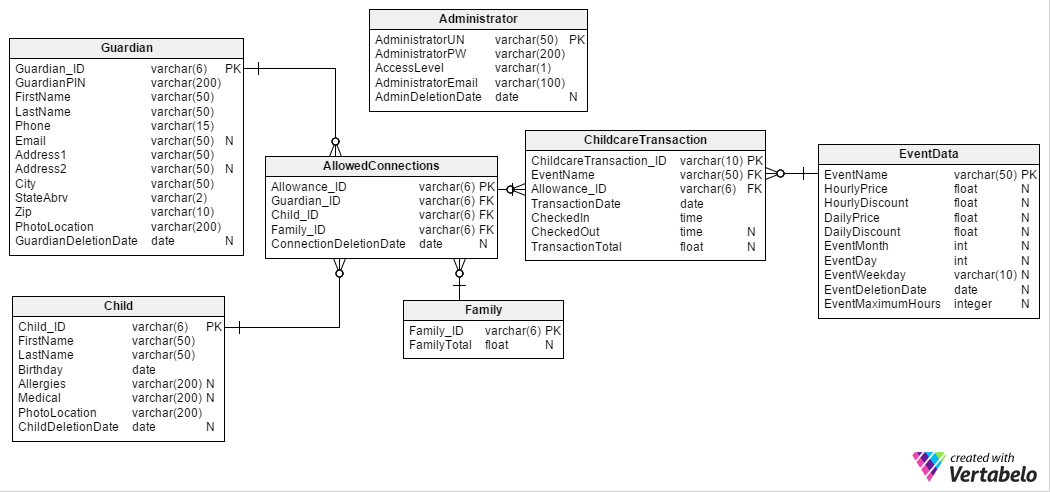
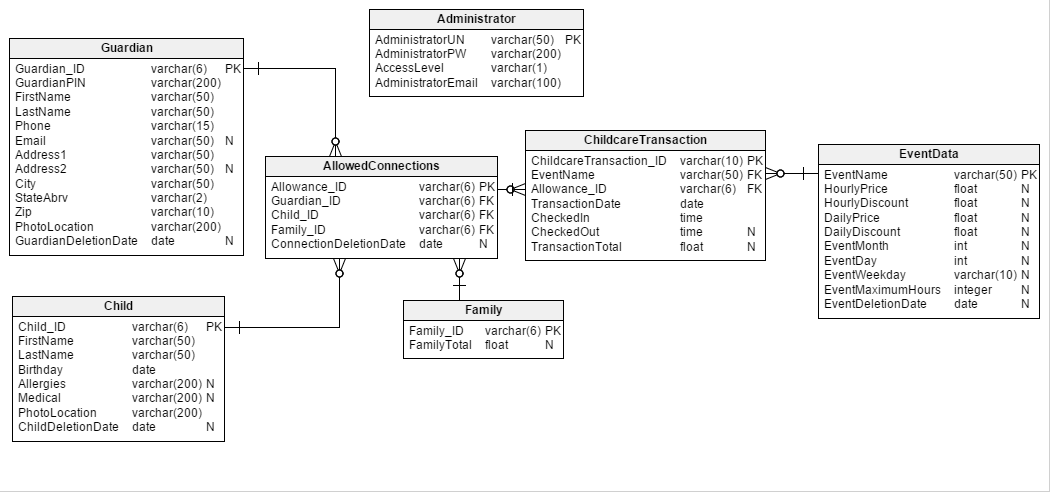
delete admin functional + newest schema

Changed region(s): [[0.3352, 0.0305, 0.579, 0.2134], [0.8533, 0.9146, 1.0, 1.0], [0.7924, 0.5793, 0.9448, 0.6402]]

diff --git a/ChildcareApplication/ChildcareApplication/AdminTools/AdminAddEdit.xaml.cs b/ChildcareApplication/ChildcareApplication/AdminTools/AdminAddEdit.xaml.cs
@@ -9,12 +9,14 @@ namespace ChildcareApplication.AdminTools
     public partial class AdminAddEdit : Window
     {
         private AdminDB db;
+        private string loggedInAs;
         private bool editingPW;
 
-        public AdminAddEdit()
+        public AdminAddEdit(string username)
         {
             InitializeComponent();
             this.db = new AdminDB();
+            this.loggedInAs = username;
 
             lst_AdminList.ItemsSource = db.findAdmins();
         }
@@ -67,7 +69,16 @@ namespace ChildcareApplication.AdminTools
 
         private void btn_DelAdmin_Click(object sender, RoutedEventArgs e)
         {
-            MessageBox.Show("NYI");
+            if (lst_AdminList.SelectedItem.ToString().Equals(loggedInAs))
+            {
+                MessageBox.Show("You cannot delete the currently logged in administrator");
+            }
+            else
+            {
+                db.deleteAdmin(lst_AdminList.SelectedItem.ToString());
+                lst_AdminList.ItemsSource = db.findAdmins();
+                clearForm();
+            }
         }
 
         private void btn_Save_Click(object sender, RoutedEventArgs e)
@@ -85,6 +96,11 @@ namespace ChildcareApplication.AdminTools
 
         private void btn_Cancel_Click(object sender, RoutedEventArgs e)
         {
+            clearForm();
+        }
+
+        private void clearForm()
+        {
             if (btn_AddAdmin.IsEnabled == false)
                 btn_AddAdmin.IsEnabled = true;
 
@@ -100,8 +116,9 @@ namespace ChildcareApplication.AdminTools
             txt_LoginName.IsEnabled = false;
             txt_Email.IsEnabled = false;
             rdb_Full.IsEnabled = false;
-            rdb_Limited.IsEnabled = false;   
-
+            rdb_Limited.IsEnabled = false;
+            btn_Save.IsEnabled = false;
+            btn_Cancel.IsEnabled = false;
         }
 
         private void btn_ChangePW_Click(object sender, RoutedEventArgs e)

diff --git a/ChildcareApplication/ChildcareApplication/AdminTools/AdminLogin.xaml.cs b/ChildcareApplication/ChildcareApplication/AdminTools/AdminLogin.xaml.cs
@@ -93,22 +93,22 @@ namespace AdminTools {
                     }
                     else {
                         int accessLevel = db.GetAccessLevel(ID);
-                        DisplayAdminWindow(accessLevel);
+                        DisplayAdminWindow(accessLevel, txt_UserName.Text);
                     }
                 } else {
                     MessageBox.Show("User ID or PIN does not exist");
                 }
             }
         }
-
+        
         private void DisplayAdminChildCheckIn() {
             ParentTools.AdminChildCheckIn AdminCheckIn = new ParentTools.AdminChildCheckIn();
             AdminCheckIn.Show();
             this.Close();
         }
 
-        private void DisplayAdminWindow(int accessLevel) {
-            AdminMenu AdminMenu = new AdminMenu(accessLevel);
+        private void DisplayAdminWindow(int accessLevel, string username) {
+            AdminMenu AdminMenu = new AdminMenu(accessLevel, username);
             AdminMenu.Show();
             this.Close(); 
         }

diff --git a/ChildcareApplication/ChildcareApplication/AdminTools/AdminMenu.xaml.cs b/ChildcareApplication/ChildcareApplication/AdminTools/AdminMenu.xaml.cs
@@ -19,9 +19,12 @@ namespace AdminTools {
     /// </summary>
     public partial class AdminMenu : Window {
         private int accessLevel;
-        public AdminMenu(int accessLevel) {
+        private string username;
+
+        public AdminMenu(int accessLevel, string usernamne) {
             InitializeComponent();
             this.accessLevel = accessLevel;
+            this.username = username;
             HideAdminOptions();
         }
 
@@ -114,7 +117,7 @@ namespace AdminTools {
         }
 
         private void btn_AddEditAdmin_Click(object sender, RoutedEventArgs e) {
-            AdminAddEdit adminedit = new AdminAddEdit();
+            AdminAddEdit adminedit = new AdminAddEdit(username);
             adminedit.ShowDialog();
         }
 

diff --git a/ChildcareApplication/ChildcareApplication/DatabaseController/AdminDB.cs b/ChildcareApplication/ChildcareApplication/DatabaseController/AdminDB.cs
@@ -113,5 +113,18 @@ namespace ChildcareApplication.DatabaseController {
             
             conn.Close();
         }
+
+        internal void deleteAdmin(string user)
+        {
+            conn.Open();
+
+            string sql = @"DELETE FROM Administrator WHERE AdministratorUN = @delme;";
+            SQLiteCommand comm = new SQLiteCommand(sql, conn);
+            comm.Parameters.Add(new SQLiteParameter("@delMe", user));
+            
+            comm.ExecuteNonQuery();
+
+            conn.Close();
+        }
     }
 }
